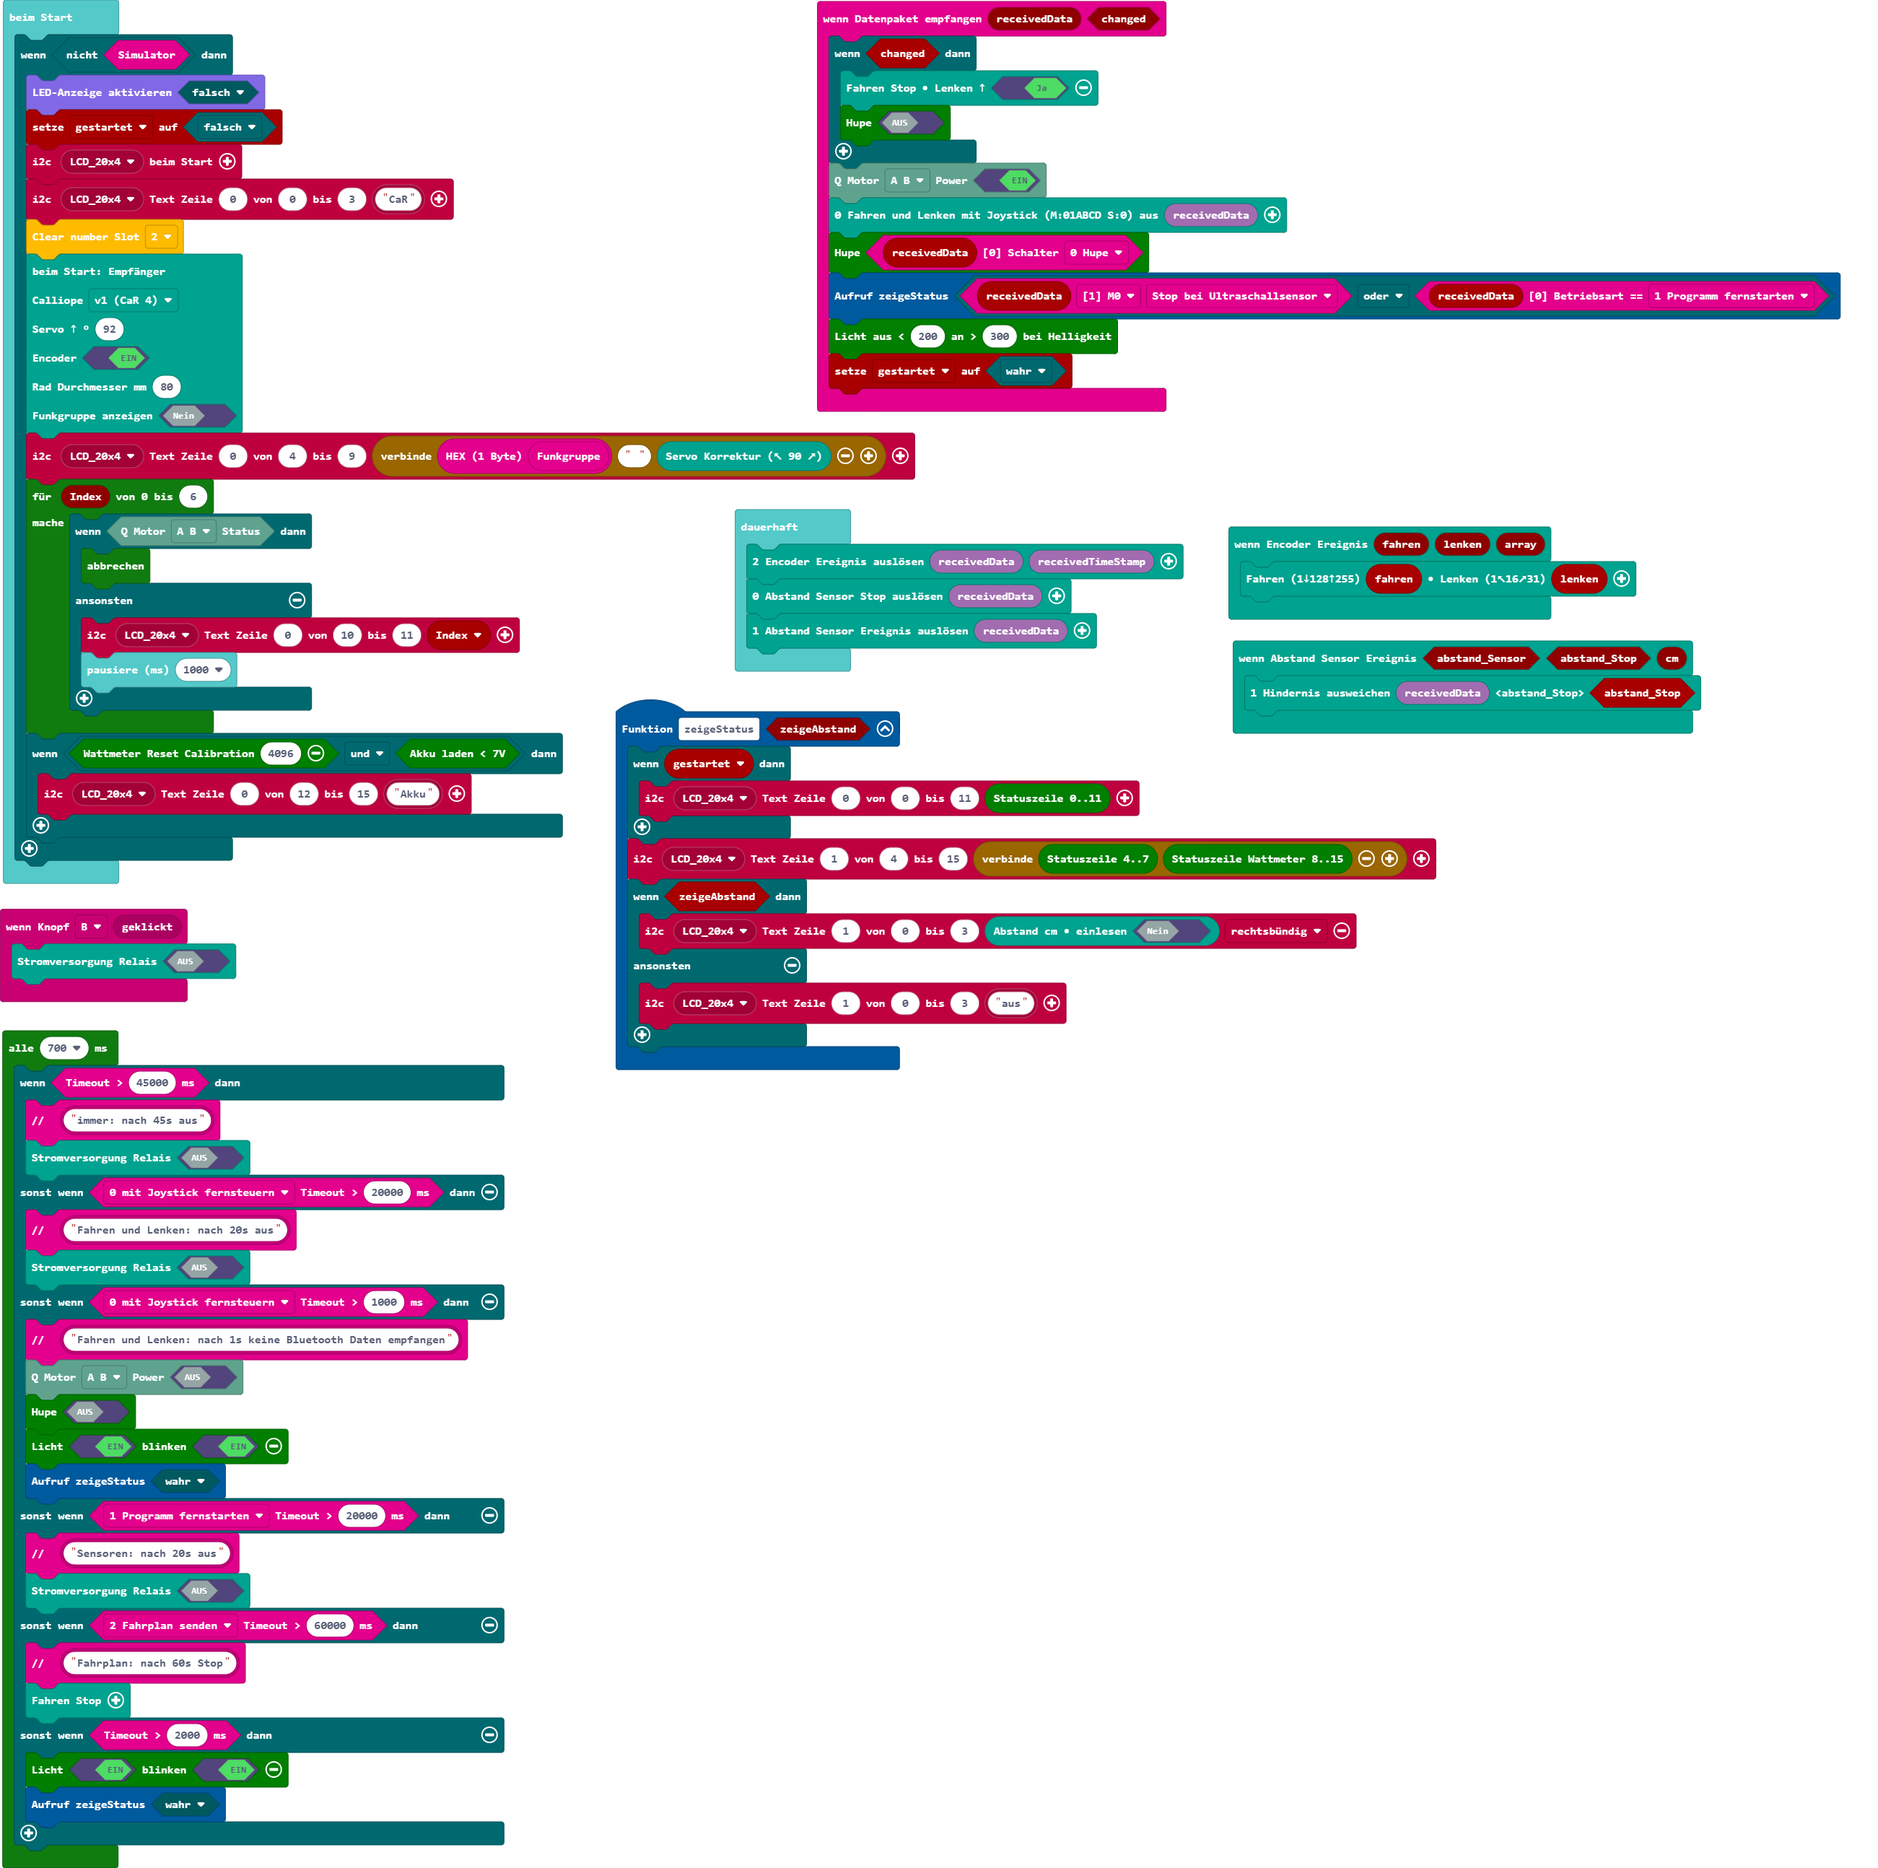
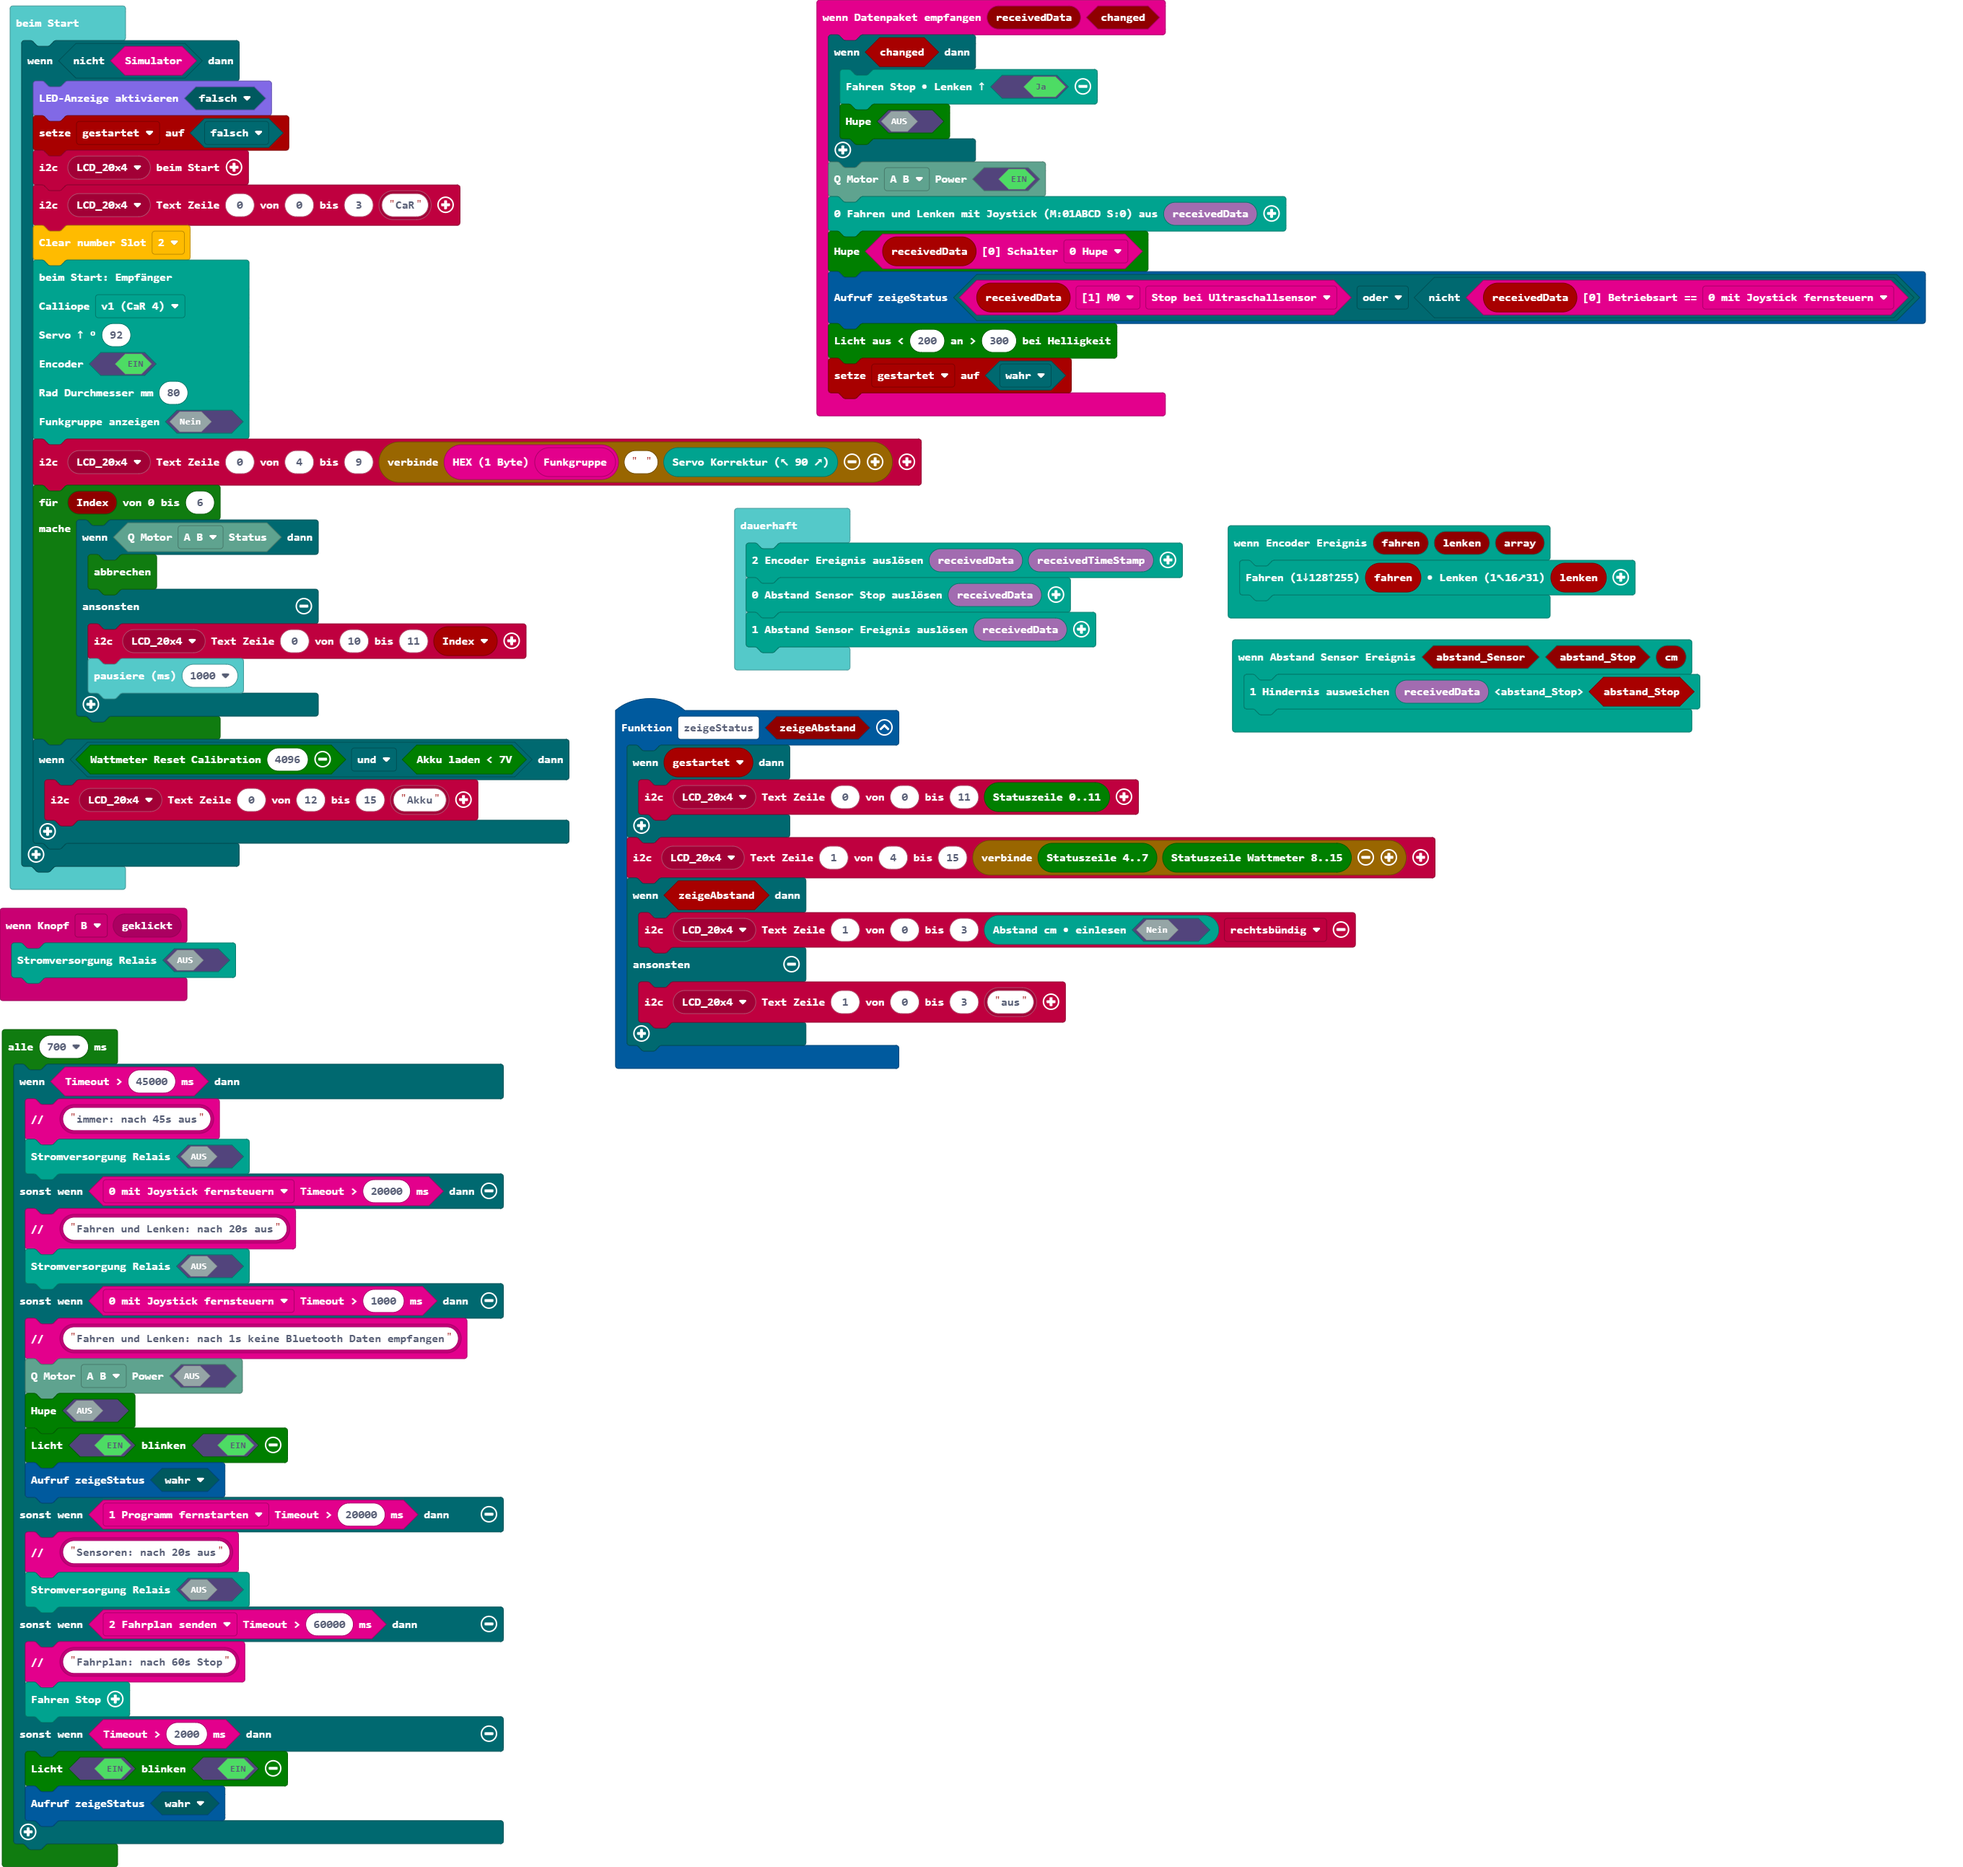
Aktualisiere main.blocks, main.ts

diff --git a/main.ts b/main.ts
@@ -26,7 +26,7 @@ btf.onReceivedDataChanged(function (receivedData, changed) {
     receiver.qwiicMotorChipPower(receiver.eQwiicMotorChip.ab, true)
     receiver.fahreJoystick(btf.btf_receivedBuffer19())
     car.buzzer(btf.getSchalter(receivedData, btf.e0Schalter.b0))
-    zeigeStatus(btf.getSensor(receivedData, btf.eBufferPointer.m0, btf.eSensor.b6Abstand) || btf.isBetriebsart(receivedData, btf.e0Betriebsart.p1Lokal))
+    zeigeStatus(btf.getSensor(receivedData, btf.eBufferPointer.m0, btf.eSensor.b6Abstand) || !(btf.isBetriebsart(receivedData, btf.e0Betriebsart.p0Fahren)))
     car.licht_sensor(200, 300)
     gestartet = true
 })
